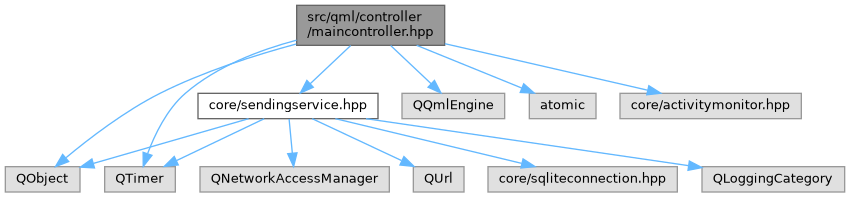
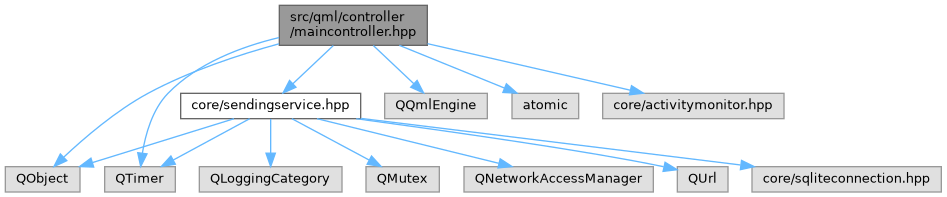
deploy: 84eef0f3435b2b0dd16a43b3fc5814b2446b180a

diff --git a/sendingservice_8hpp_source.html b/sendingservice_8hpp_source.html
@@ -86,48 +86,50 @@ $(document).ready(function() { init_codefold(0); });
 <div class="line"><a id="l00003" name="l00003"></a><span class="lineno">    3</span><span class="preprocessor">#include &quot;core/sqliteconnection.hpp&quot;</span></div>
 <div class="line"><a id="l00004" name="l00004"></a><span class="lineno">    4</span> </div>
 <div class="line"><a id="l00005" name="l00005"></a><span class="lineno">    5</span><span class="preprocessor">#include &lt;QLoggingCategory&gt;</span></div>
-<div class="line"><a id="l00006" name="l00006"></a><span class="lineno">    6</span><span class="preprocessor">#include &lt;QNetworkAccessManager&gt;</span></div>
-<div class="line"><a id="l00007" name="l00007"></a><span class="lineno">    7</span><span class="preprocessor">#include &lt;QObject&gt;</span></div>
-<div class="line"><a id="l00008" name="l00008"></a><span class="lineno">    8</span><span class="preprocessor">#include &lt;QTimer&gt;</span></div>
-<div class="line"><a id="l00009" name="l00009"></a><span class="lineno">    9</span><span class="preprocessor">#include &lt;QUrl&gt;</span></div>
-<div class="line"><a id="l00010" name="l00010"></a><span class="lineno">   10</span> </div>
-<div class="line"><a id="l00011" name="l00011"></a><span class="lineno">   11</span>Q_DECLARE_LOGGING_CATEGORY(worktimeSendingService)</div>
-<div class="line"><a id="l00012" name="l00012"></a><span class="lineno">   12</span> </div>
-<div class="line"><a id="l00013" name="l00013"></a><span class="lineno">   13</span><span class="keyword">class </span>QNetworkReply;</div>
-<div class="line"><a id="l00014" name="l00014"></a><span class="lineno">   14</span> </div>
-<div class="foldopen" id="foldopen00019" data-start="{" data-end="};">
-<div class="line"><a id="l00019" name="l00019"></a><span class="lineno"><a class="line" href="classSendingService.html">   19</a></span><span class="keyword">class </span><a class="code hl_class" href="classSendingService.html">SendingService</a> : <span class="keyword">public</span> QObject</div>
-<div class="line"><a id="l00020" name="l00020"></a><span class="lineno">   20</span>{</div>
-<div class="line"><a id="l00021" name="l00021"></a><span class="lineno">   21</span>    Q_OBJECT</div>
-<div class="line"><a id="l00022" name="l00022"></a><span class="lineno">   22</span> </div>
-<div class="line"><a id="l00023" name="l00023"></a><span class="lineno">   23</span><span class="keyword">public</span>:</div>
-<div class="line"><a id="l00029" name="l00029"></a><span class="lineno"><a class="line" href="classSendingService.html#a4725127232ea47a6cd1708510d5abec8">   29</a></span>    <span class="keyword">explicit</span> <a class="code hl_function" href="classSendingService.html#a4725127232ea47a6cd1708510d5abec8">SendingService</a>(QObject *parent = <span class="keyword">nullptr</span>);</div>
-<div class="line"><a id="l00030" name="l00030"></a><span class="lineno">   30</span> </div>
-<div class="line"><a id="l00035" name="l00035"></a><span class="lineno"><a class="line" href="classSendingService.html#ab0196fe402ec1fcef247564586c41eaf">   35</a></span>    QUrl <a class="code hl_function" href="classSendingService.html#ab0196fe402ec1fcef247564586c41eaf">serverUrl</a>() <span class="keyword">const</span>;</div>
-<div class="line"><a id="l00040" name="l00040"></a><span class="lineno"><a class="line" href="classSendingService.html#a42dda7b4c7af2a3e19fa5d680219b99c">   40</a></span>    <span class="keywordtype">void</span> <a class="code hl_function" href="classSendingService.html#a42dda7b4c7af2a3e19fa5d680219b99c">setServerUrl</a>(<span class="keyword">const</span> QUrl &amp;url);</div>
-<div class="line"><a id="l00041" name="l00041"></a><span class="lineno">   41</span> </div>
-<div class="line"><a id="l00046" name="l00046"></a><span class="lineno"><a class="line" href="classSendingService.html#a1dc0c0ecfaf50a86b735775b8eb60a0a">   46</a></span>    <span class="keywordtype">void</span> <a class="code hl_function" href="classSendingService.html#a1dc0c0ecfaf50a86b735775b8eb60a0a">start</a>();</div>
-<div class="line"><a id="l00051" name="l00051"></a><span class="lineno"><a class="line" href="classSendingService.html#a5c9b8669459dbe85bbd290f2560af17a">   51</a></span>    <span class="keywordtype">void</span> <a class="code hl_function" href="classSendingService.html#a5c9b8669459dbe85bbd290f2560af17a">stop</a>();</div>
-<div class="line"><a id="l00056" name="l00056"></a><span class="lineno"><a class="line" href="classSendingService.html#adc824d31c0e51a45e6364c81b57d20f9">   56</a></span>    <span class="keywordtype">bool</span> <a class="code hl_function" href="classSendingService.html#adc824d31c0e51a45e6364c81b57d20f9">isActive</a>() <span class="keyword">const</span>;</div>
-<div class="line"><a id="l00057" name="l00057"></a><span class="lineno">   57</span> </div>
-<div class="line"><a id="l00058" name="l00058"></a><span class="lineno">   58</span>signals:</div>
-<div class="line"><a id="l00060" name="l00060"></a><span class="lineno"><a class="line" href="classSendingService.html#a0986f7ee849ac65afa3d20168dae6d25">   60</a></span>    <span class="keywordtype">void</span> <a class="code hl_signal" href="classSendingService.html#a0986f7ee849ac65afa3d20168dae6d25">serverUrlChanged</a>();</div>
-<div class="line"><a id="l00062" name="l00062"></a><span class="lineno"><a class="line" href="classSendingService.html#a98ac1cf723a73b1d32e464c3418a5694">   62</a></span>    <span class="keywordtype">void</span> <a class="code hl_signal" href="classSendingService.html#a98ac1cf723a73b1d32e464c3418a5694">sendSucceeded</a>();</div>
-<div class="line"><a id="l00064" name="l00064"></a><span class="lineno"><a class="line" href="classSendingService.html#a1f06beef9e350a0218e68dca42828a12">   64</a></span>    <span class="keywordtype">void</span> <a class="code hl_signal" href="classSendingService.html#a1f06beef9e350a0218e68dca42828a12">sendFailed</a>(<span class="keyword">const</span> QString &amp;errorString);</div>
-<div class="line"><a id="l00065" name="l00065"></a><span class="lineno">   65</span> </div>
-<div class="line"><a id="l00066" name="l00066"></a><span class="lineno">   66</span><span class="keyword">private</span>:</div>
-<div class="line"><a id="l00071" name="l00071"></a><span class="lineno">   71</span>    QByteArray buildRequestBody(<span class="keyword">const</span> QString &amp;title, qint64 utcTimestamp, qint64 shootTime) <span class="keyword">const</span>;</div>
-<div class="line"><a id="l00072" name="l00072"></a><span class="lineno">   72</span> </div>
-<div class="line"><a id="l00078" name="l00078"></a><span class="lineno">   78</span>    <span class="keywordtype">void</span> sendNow();</div>
-<div class="line"><a id="l00084" name="l00084"></a><span class="lineno">   84</span>    <span class="keywordtype">void</span> handleReplyFinished(QNetworkReply *reply);</div>
-<div class="line"><a id="l00085" name="l00085"></a><span class="lineno">   85</span> </div>
-<div class="line"><a id="l00087" name="l00087"></a><span class="lineno">   87</span>    QNetworkAccessManager m_networkManager;</div>
-<div class="line"><a id="l00089" name="l00089"></a><span class="lineno">   89</span>    QTimer m_timer;</div>
-<div class="line"><a id="l00091" name="l00091"></a><span class="lineno">   91</span>    QUrl m_serverUrl;</div>
-<div class="line"><a id="l00093" name="l00093"></a><span class="lineno">   93</span>    SQLiteConnection m_sqliteConnection;</div>
-<div class="line"><a id="l00094" name="l00094"></a><span class="lineno">   94</span>};</div>
+<div class="line"><a id="l00006" name="l00006"></a><span class="lineno">    6</span><span class="preprocessor">#include &lt;QMutex&gt;</span></div>
+<div class="line"><a id="l00007" name="l00007"></a><span class="lineno">    7</span><span class="preprocessor">#include &lt;QNetworkAccessManager&gt;</span></div>
+<div class="line"><a id="l00008" name="l00008"></a><span class="lineno">    8</span><span class="preprocessor">#include &lt;QObject&gt;</span></div>
+<div class="line"><a id="l00009" name="l00009"></a><span class="lineno">    9</span><span class="preprocessor">#include &lt;QTimer&gt;</span></div>
+<div class="line"><a id="l00010" name="l00010"></a><span class="lineno">   10</span><span class="preprocessor">#include &lt;QUrl&gt;</span></div>
+<div class="line"><a id="l00011" name="l00011"></a><span class="lineno">   11</span> </div>
+<div class="line"><a id="l00012" name="l00012"></a><span class="lineno">   12</span>Q_DECLARE_LOGGING_CATEGORY(worktimeSendingService)</div>
+<div class="line"><a id="l00013" name="l00013"></a><span class="lineno">   13</span> </div>
+<div class="line"><a id="l00014" name="l00014"></a><span class="lineno">   14</span><span class="keyword">class </span>QNetworkReply;</div>
+<div class="line"><a id="l00015" name="l00015"></a><span class="lineno">   15</span> </div>
+<div class="foldopen" id="foldopen00020" data-start="{" data-end="};">
+<div class="line"><a id="l00020" name="l00020"></a><span class="lineno"><a class="line" href="classSendingService.html">   20</a></span><span class="keyword">class </span><a class="code hl_class" href="classSendingService.html">SendingService</a> : <span class="keyword">public</span> QObject</div>
+<div class="line"><a id="l00021" name="l00021"></a><span class="lineno">   21</span>{</div>
+<div class="line"><a id="l00022" name="l00022"></a><span class="lineno">   22</span>    Q_OBJECT</div>
+<div class="line"><a id="l00023" name="l00023"></a><span class="lineno">   23</span> </div>
+<div class="line"><a id="l00024" name="l00024"></a><span class="lineno">   24</span><span class="keyword">public</span>:</div>
+<div class="line"><a id="l00030" name="l00030"></a><span class="lineno"><a class="line" href="classSendingService.html#a4725127232ea47a6cd1708510d5abec8">   30</a></span>    <span class="keyword">explicit</span> <a class="code hl_function" href="classSendingService.html#a4725127232ea47a6cd1708510d5abec8">SendingService</a>(QObject *parent = <span class="keyword">nullptr</span>);</div>
+<div class="line"><a id="l00031" name="l00031"></a><span class="lineno">   31</span> </div>
+<div class="line"><a id="l00037" name="l00037"></a><span class="lineno"><a class="line" href="classSendingService.html#ab0196fe402ec1fcef247564586c41eaf">   37</a></span>    QUrl <a class="code hl_function" href="classSendingService.html#ab0196fe402ec1fcef247564586c41eaf">serverUrl</a>() <span class="keyword">const</span>;</div>
+<div class="line"><a id="l00043" name="l00043"></a><span class="lineno"><a class="line" href="classSendingService.html#a42dda7b4c7af2a3e19fa5d680219b99c">   43</a></span>    <span class="keywordtype">void</span> <a class="code hl_function" href="classSendingService.html#a42dda7b4c7af2a3e19fa5d680219b99c">setServerUrl</a>(<span class="keyword">const</span> QUrl &amp;url);</div>
+<div class="line"><a id="l00044" name="l00044"></a><span class="lineno">   44</span> </div>
+<div class="line"><a id="l00049" name="l00049"></a><span class="lineno"><a class="line" href="classSendingService.html#a1dc0c0ecfaf50a86b735775b8eb60a0a">   49</a></span>    <span class="keywordtype">void</span> <a class="code hl_function" href="classSendingService.html#a1dc0c0ecfaf50a86b735775b8eb60a0a">start</a>();</div>
+<div class="line"><a id="l00054" name="l00054"></a><span class="lineno"><a class="line" href="classSendingService.html#a5c9b8669459dbe85bbd290f2560af17a">   54</a></span>    <span class="keywordtype">void</span> <a class="code hl_function" href="classSendingService.html#a5c9b8669459dbe85bbd290f2560af17a">stop</a>();</div>
+<div class="line"><a id="l00059" name="l00059"></a><span class="lineno"><a class="line" href="classSendingService.html#adc824d31c0e51a45e6364c81b57d20f9">   59</a></span>    <span class="keywordtype">bool</span> <a class="code hl_function" href="classSendingService.html#adc824d31c0e51a45e6364c81b57d20f9">isActive</a>() <span class="keyword">const</span>;</div>
+<div class="line"><a id="l00060" name="l00060"></a><span class="lineno">   60</span> </div>
+<div class="line"><a id="l00061" name="l00061"></a><span class="lineno">   61</span>signals:</div>
+<div class="line"><a id="l00063" name="l00063"></a><span class="lineno"><a class="line" href="classSendingService.html#a0986f7ee849ac65afa3d20168dae6d25">   63</a></span>    <span class="keywordtype">void</span> <a class="code hl_signal" href="classSendingService.html#a0986f7ee849ac65afa3d20168dae6d25">serverUrlChanged</a>();</div>
+<div class="line"><a id="l00065" name="l00065"></a><span class="lineno"><a class="line" href="classSendingService.html#a98ac1cf723a73b1d32e464c3418a5694">   65</a></span>    <span class="keywordtype">void</span> <a class="code hl_signal" href="classSendingService.html#a98ac1cf723a73b1d32e464c3418a5694">sendSucceeded</a>();</div>
+<div class="line"><a id="l00067" name="l00067"></a><span class="lineno"><a class="line" href="classSendingService.html#a1f06beef9e350a0218e68dca42828a12">   67</a></span>    <span class="keywordtype">void</span> <a class="code hl_signal" href="classSendingService.html#a1f06beef9e350a0218e68dca42828a12">sendFailed</a>(<span class="keyword">const</span> QString &amp;errorString);</div>
+<div class="line"><a id="l00068" name="l00068"></a><span class="lineno">   68</span> </div>
+<div class="line"><a id="l00069" name="l00069"></a><span class="lineno">   69</span><span class="keyword">private</span>:</div>
+<div class="line"><a id="l00074" name="l00074"></a><span class="lineno">   74</span>    QByteArray buildRequestBody(<span class="keyword">const</span> QString &amp;title, qint64 utcTimestamp, qint64 shootTime) <span class="keyword">const</span>;</div>
+<div class="line"><a id="l00075" name="l00075"></a><span class="lineno">   75</span> </div>
+<div class="line"><a id="l00081" name="l00081"></a><span class="lineno">   81</span>    <span class="keywordtype">void</span> sendNow();</div>
+<div class="line"><a id="l00087" name="l00087"></a><span class="lineno">   87</span>    <span class="keywordtype">void</span> handleReplyFinished(QNetworkReply *reply);</div>
+<div class="line"><a id="l00088" name="l00088"></a><span class="lineno">   88</span> </div>
+<div class="line"><a id="l00090" name="l00090"></a><span class="lineno">   90</span>    QNetworkAccessManager m_networkManager;</div>
+<div class="line"><a id="l00092" name="l00092"></a><span class="lineno">   92</span>    QTimer m_timer;</div>
+<div class="line"><a id="l00094" name="l00094"></a><span class="lineno">   94</span>    QUrl m_serverUrl;</div>
+<div class="line"><a id="l00096" name="l00096"></a><span class="lineno">   96</span>    <span class="keyword">mutable</span> QMutex m_serverUrlMutex;</div>
+<div class="line"><a id="l00098" name="l00098"></a><span class="lineno">   98</span>    SQLiteConnection m_sqliteConnection;</div>
+<div class="line"><a id="l00099" name="l00099"></a><span class="lineno">   99</span>};</div>
 </div>
-<div class="ttc" id="aclassSendingService_html"><div class="ttname"><a href="classSendingService.html">SendingService</a></div><div class="ttdoc">Periodically submits one activity sample to the Worktime remote endpoint.</div><div class="ttdef"><b>Definition</b> sendingservice.hpp:20</div></div>
+<div class="ttc" id="aclassSendingService_html"><div class="ttname"><a href="classSendingService.html">SendingService</a></div><div class="ttdoc">Periodically submits one activity sample to the Worktime remote endpoint.</div><div class="ttdef"><b>Definition</b> sendingservice.hpp:21</div></div>
 <div class="ttc" id="aclassSendingService_html_a0986f7ee849ac65afa3d20168dae6d25"><div class="ttname"><a href="classSendingService.html#a0986f7ee849ac65afa3d20168dae6d25">SendingService::serverUrlChanged</a></div><div class="ttdeci">void serverUrlChanged()</div><div class="ttdoc">Emmited after a server url changed.</div></div>
 <div class="ttc" id="aclassSendingService_html_a1dc0c0ecfaf50a86b735775b8eb60a0a"><div class="ttname"><a href="classSendingService.html#a1dc0c0ecfaf50a86b735775b8eb60a0a">SendingService::start</a></div><div class="ttdeci">void start()</div><div class="ttdoc">Starts the periodic send timer and sends immediately once.</div></div>
 <div class="ttc" id="aclassSendingService_html_a1f06beef9e350a0218e68dca42828a12"><div class="ttname"><a href="classSendingService.html#a1f06beef9e350a0218e68dca42828a12">SendingService::sendFailed</a></div><div class="ttdeci">void sendFailed(const QString &amp;errorString)</div><div class="ttdoc">Emitted after a send request fails, with a human-readable reason.</div></div>

diff --git a/maincontroller_8hpp.html b/maincontroller_8hpp.html
@@ -89,29 +89,31 @@ Include dependency graph for maincontroller.hpp:</div>
 <div class="dyncontent">
 <div class="center"><img src="maincontroller_8hpp__incl.png" border="0" usemap="#asrc_2qml_2controller_2maincontroller_8hpp" alt=""/></div>
 <map name="asrc_2qml_2controller_2maincontroller_8hpp" id="asrc_2qml_2controller_2maincontroller_8hpp">
-<area shape="rect" title=" " alt="" coords="297,5,445,45"/>
+<area shape="rect" title=" " alt="" coords="279,5,427,45"/>
 <area shape="rect" title=" " alt="" coords="5,167,80,192"/>
-<area shape="poly" title=" " alt="" coords="297,47,230,67,161,96,110,127,68,160,64,156,107,123,159,91,228,62,295,41"/>
-<area shape="rect" title=" " alt="" coords="402,93,505,119"/>
-<area shape="poly" title=" " alt="" coords="393,44,433,82,429,86,389,47"/>
+<area shape="poly" title=" " alt="" coords="280,46,215,67,149,96,103,127,66,159,62,155,100,122,147,91,213,62,278,41"/>
+<area shape="rect" title=" " alt="" coords="385,93,487,119"/>
+<area shape="poly" title=" " alt="" coords="375,44,416,82,412,86,372,47"/>
 <area shape="rect" title=" " alt="" coords="105,167,175,192"/>
-<area shape="poly" title=" " alt="" coords="297,43,240,63,212,77,187,95,164,124,150,155,145,152,160,121,183,91,209,73,238,58,296,38"/>
-<area shape="rect" title=" " alt="" coords="529,93,596,119"/>
-<area shape="poly" title=" " alt="" coords="418,43,523,86,521,91,416,48"/>
-<area shape="rect" title=" " alt="" coords="620,93,801,119"/>
-<area shape="poly" title=" " alt="" coords="445,41,648,88,647,93,444,46"/>
-<area shape="rect" href="sendingservice_8hpp.html" title=" " alt="" coords="198,93,378,119"/>
-<area shape="poly" title=" " alt="" coords="352,47,312,86,308,82,349,44"/>
-<area shape="poly" title=" " alt="" coords="249,121,94,166,93,161,248,116"/>
-<area shape="poly" title=" " alt="" coords="265,121,178,163,175,158,263,116"/>
-<area shape="rect" title=" " alt="" coords="488,167,677,192"/>
-<area shape="poly" title=" " alt="" coords="336,116,522,161,521,166,335,121"/>
-<area shape="rect" title=" " alt="" coords="702,167,845,192"/>
-<area shape="poly" title=" " alt="" coords="366,116,689,163,688,168,366,121"/>
-<area shape="rect" title=" " alt="" coords="200,167,389,192"/>
-<area shape="poly" title=" " alt="" coords="292,119,295,153,290,153,286,119"/>
-<area shape="rect" title=" " alt="" coords="413,167,464,192"/>
-<area shape="poly" title=" " alt="" coords="313,116,403,158,400,163,311,121"/>
+<area shape="poly" title=" " alt="" coords="280,40,221,60,194,75,170,95,153,123,145,154,140,153,148,121,166,92,191,71,219,55,278,35"/>
+<area shape="rect" title=" " alt="" coords="512,93,579,119"/>
+<area shape="poly" title=" " alt="" coords="400,43,506,86,504,91,398,48"/>
+<area shape="rect" title=" " alt="" coords="603,93,784,119"/>
+<area shape="poly" title=" " alt="" coords="428,41,631,88,630,93,427,46"/>
+<area shape="rect" href="sendingservice_8hpp.html" title=" " alt="" coords="181,93,361,119"/>
+<area shape="poly" title=" " alt="" coords="335,47,295,86,291,82,331,44"/>
+<area shape="poly" title=" " alt="" coords="235,121,94,165,92,160,233,116"/>
+<area shape="poly" title=" " alt="" coords="251,121,174,162,172,158,248,116"/>
+<area shape="rect" title=" " alt="" coords="752,167,941,192"/>
+<area shape="poly" title=" " alt="" coords="362,116,741,162,740,168,361,121"/>
+<area shape="rect" title=" " alt="" coords="199,167,342,192"/>
+<area shape="poly" title=" " alt="" coords="273,119,273,153,268,153,268,119"/>
+<area shape="rect" title=" " alt="" coords="366,167,439,192"/>
+<area shape="poly" title=" " alt="" coords="293,116,370,158,368,162,291,121"/>
+<area shape="rect" title=" " alt="" coords="464,167,653,192"/>
+<area shape="poly" title=" " alt="" coords="318,116,499,161,498,166,316,121"/>
+<area shape="rect" title=" " alt="" coords="677,167,728,192"/>
+<area shape="poly" title=" " alt="" coords="357,116,517,139,664,164,663,169,516,144,356,121"/>
 </map>
 </div>
 </div>

diff --git a/sendingservice_8hpp.html b/sendingservice_8hpp.html
@@ -80,6 +80,7 @@ $(function() {
 <div class="contents">
 <div class="textblock"><code>#include &quot;core/sqliteconnection.hpp&quot;</code><br />
 <code>#include &lt;QLoggingCategory&gt;</code><br />
+<code>#include &lt;QMutex&gt;</code><br />
 <code>#include &lt;QNetworkAccessManager&gt;</code><br />
 <code>#include &lt;QObject&gt;</code><br />
 <code>#include &lt;QTimer&gt;</code><br />
@@ -89,19 +90,21 @@ Include dependency graph for sendingservice.hpp:</div>
 <div class="dyncontent">
 <div class="center"><img src="sendingservice_8hpp__incl.png" border="0" usemap="#asrc_2core_2sendingservice_8hpp" alt=""/></div>
 <map name="asrc_2core_2sendingservice_8hpp" id="asrc_2core_2sendingservice_8hpp">
-<area shape="rect" title=" " alt="" coords="457,5,660,31"/>
+<area shape="rect" title=" " alt="" coords="477,5,680,31"/>
 <area shape="rect" title=" " alt="" coords="5,79,195,104"/>
-<area shape="poly" title=" " alt="" coords="485,33,188,79,187,74,485,28"/>
+<area shape="poly" title=" " alt="" coords="502,33,191,79,190,74,501,28"/>
 <area shape="rect" title=" " alt="" coords="219,79,362,104"/>
-<area shape="poly" title=" " alt="" coords="516,33,348,78,346,73,515,28"/>
-<area shape="rect" title=" " alt="" coords="387,79,576,104"/>
-<area shape="poly" title=" " alt="" coords="548,33,506,71,502,67,544,29"/>
-<area shape="rect" title=" " alt="" coords="600,79,675,104"/>
-<area shape="poly" title=" " alt="" coords="573,29,616,68,613,71,570,33"/>
-<area shape="rect" title=" " alt="" coords="699,79,770,104"/>
-<area shape="poly" title=" " alt="" coords="588,28,694,71,692,76,586,33"/>
-<area shape="rect" title=" " alt="" coords="795,79,845,104"/>
-<area shape="poly" title=" " alt="" coords="604,28,782,76,781,81,603,33"/>
+<area shape="poly" title=" " alt="" coords="533,33,351,78,350,73,532,28"/>
+<area shape="rect" title=" " alt="" coords="386,79,459,104"/>
+<area shape="poly" title=" " alt="" coords="555,33,462,75,460,70,553,28"/>
+<area shape="rect" title=" " alt="" coords="484,79,673,104"/>
+<area shape="poly" title=" " alt="" coords="581,31,581,65,576,65,576,31"/>
+<area shape="rect" title=" " alt="" coords="697,79,772,104"/>
+<area shape="poly" title=" " alt="" coords="605,28,698,70,696,75,603,33"/>
+<area shape="rect" title=" " alt="" coords="797,79,867,104"/>
+<area shape="poly" title=" " alt="" coords="620,28,784,74,782,79,619,33"/>
+<area shape="rect" title=" " alt="" coords="892,79,943,104"/>
+<area shape="poly" title=" " alt="" coords="647,28,752,48,879,76,878,81,751,53,646,33"/>
 </map>
 </div>
 </div><div class="textblock"><div class="dynheader">

diff --git a/maincontroller_8hpp_source.html b/maincontroller_8hpp_source.html
@@ -174,7 +174,7 @@ $(document).ready(function() { init_codefold(0); });
 <div class="ttc" id="aclassMainController_html_af0d392622bd2b6f7e0b7612bd88f6b25"><div class="ttname"><a href="classMainController.html#af0d392622bd2b6f7e0b7612bd88f6b25">MainController::autoStartup</a></div><div class="ttdeci">bool autoStartup</div><div class="ttdef"><b>Definition</b> maincontroller.hpp:29</div></div>
 <div class="ttc" id="aclassMainController_html_af27009e759a9de45b9a6bf533c762684"><div class="ttname"><a href="classMainController.html#af27009e759a9de45b9a6bf533c762684">MainController::MainController</a></div><div class="ttdeci">MainController(QObject *parent=nullptr)</div><div class="ttdoc">Relays every Settings property-change signal to this controller's own.</div></div>
 <div class="ttc" id="aclassMainController_html_aff3dd90afb1222afb2602ce81942aea6"><div class="ttname"><a href="classMainController.html#aff3dd90afb1222afb2602ce81942aea6">MainController::setPassword</a></div><div class="ttdeci">void setPassword(const QString &amp;password) const</div><div class="ttdoc">Forwards to Settings::setPassword().</div></div>
-<div class="ttc" id="aclassSendingService_html"><div class="ttname"><a href="classSendingService.html">SendingService</a></div><div class="ttdoc">Periodically submits one activity sample to the Worktime remote endpoint.</div><div class="ttdef"><b>Definition</b> sendingservice.hpp:20</div></div>
+<div class="ttc" id="aclassSendingService_html"><div class="ttname"><a href="classSendingService.html">SendingService</a></div><div class="ttdoc">Periodically submits one activity sample to the Worktime remote endpoint.</div><div class="ttdef"><b>Definition</b> sendingservice.hpp:21</div></div>
 <div class="ttc" id="asendingservice_8hpp_html"><div class="ttname"><a href="sendingservice_8hpp.html">sendingservice.hpp</a></div></div>
 </div><!-- fragment --></div><!-- contents -->
 <!-- start footer part -->

diff --git a/classSendingService.html b/classSendingService.html
@@ -259,6 +259,7 @@ Public Member Functions</h2></td></tr>
 </div><div class="memdoc">
 
 <p>Endpoint requests are POSTed to. Invalid/empty until set. </p>
+<dl class="section note"><dt>Note</dt><dd>Thread safety: Thread-safe. </dd></dl>
 <dl class="section user"><dt>Cyclomatic complexity: 1</dt><dd></dd></dl>
 
 </div>
@@ -307,6 +308,7 @@ Public Member Functions</h2></td></tr>
 </div><div class="memdoc">
 
 <p>Sets <a class="el" href="classSendingService.html#ab0196fe402ec1fcef247564586c41eaf" title="Endpoint requests are POSTed to. Invalid/empty until set.">serverUrl()</a>. </p>
+<dl class="section note"><dt>Note</dt><dd>Thread safety: Thread-safe. </dd></dl>
 <dl class="section user"><dt>Cyclomatic complexity: 1</dt><dd></dd></dl>
 
 </div>
